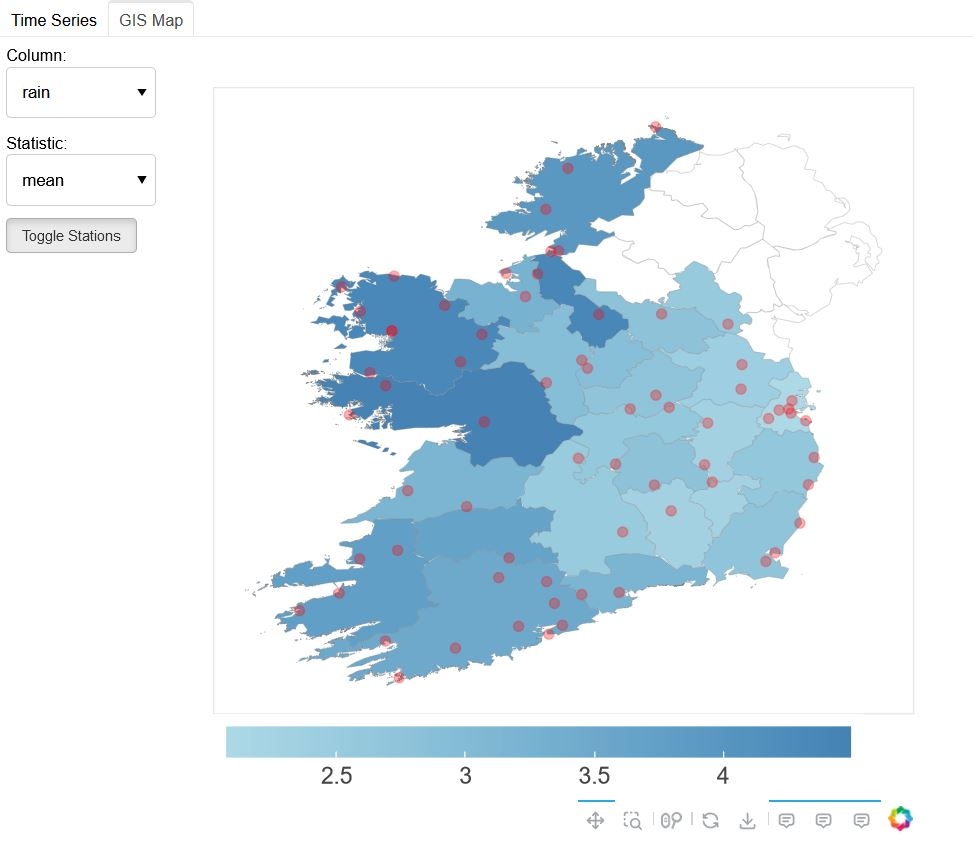
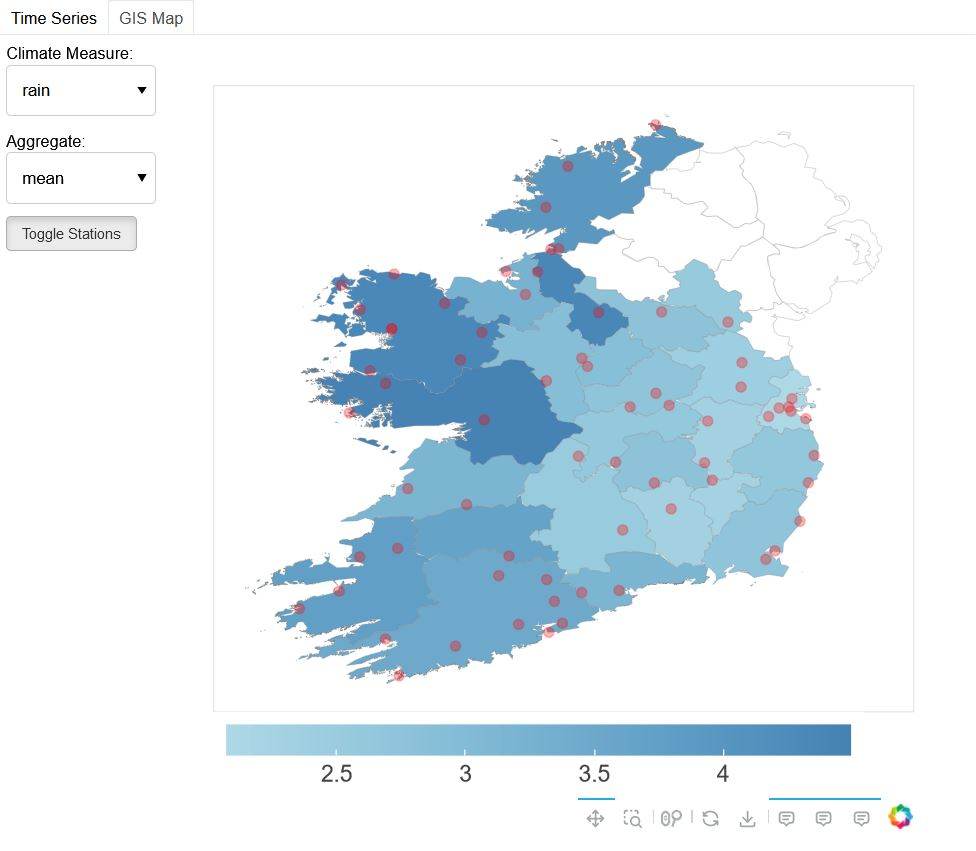
Revised title naming conventions of dashboard plots

diff --git a/scripts/BokehApp/bokeh_line_dash.py b/scripts/BokehApp/bokeh_line_dash.py
@@ -66,7 +66,7 @@ def bokeh_line_dash(load_data_dict=True):
 
     # set up selectors for bokeh line plot
     line_agg_level_selector = Select(
-        title="Aggregate Level:",
+        title="Time Span:",
         value=cons.line_agg_level_default,
         options=cons.line_agg_level_options,
         width=130,
@@ -74,7 +74,7 @@ def bokeh_line_dash(load_data_dict=True):
         aspect_ratio=10,
     )
     line_col_selector = Select(
-        title="Column:",
+        title="Climate Measure:",
         value=cons.col_default,
         options=cons.col_options,
         width=130,
@@ -82,7 +82,7 @@ def bokeh_line_dash(load_data_dict=True):
         aspect_ratio=10,
     )
     line_stat_selector = Select(
-        title="Statistic:",
+        title="Aggregate:",
         value=cons.stat_default,
         options=cons.stat_options,
         width=130,
@@ -90,7 +90,11 @@ def bokeh_line_dash(load_data_dict=True):
         aspect_ratio=10,
     )
     line_county_multiselect = MultiSelect(
-        value=cons.counties_values, options=cons.counties_options, width=130, height=260
+        title="Counties:",
+        value=cons.counties_values, 
+        options=cons.counties_options, 
+        width=130, 
+        height=260
     )
     line_county_selectall_button = Button(label="Select All", width=130)
     line_county_clearall_button = Button(label="Clear All", width=130)
@@ -107,9 +111,9 @@ def bokeh_line_dash(load_data_dict=True):
         line_agg_level_selector,
         line_col_selector,
         line_stat_selector,
+        line_county_multiselect,
         line_county_selectall_button,
         line_county_clearall_button,
-        line_county_multiselect,
     )
     dashboard_line = row(widgets_line, line_plot)
 

diff --git a/scripts/BokehApp/bokeh_map_dash.py b/scripts/BokehApp/bokeh_map_dash.py
@@ -66,7 +66,7 @@ def bokeh_map_dash(load_data_dict=True):
 
     # set up selectors for bokeh map plot
     map_col_selector = Select(
-        title="Column:",
+        title="Climate Measure:",
         value=cons.col_default,
         options=cons.col_options,
         width=120,
@@ -74,7 +74,7 @@ def bokeh_map_dash(load_data_dict=True):
         aspect_ratio=10,
     )
     map_stat_selector = Select(
-        title="Statistic:",
+        title="Aggregate:",
         value=cons.stat_default,
         options=cons.stat_options,
         width=120,
@@ -82,7 +82,9 @@ def bokeh_map_dash(load_data_dict=True):
         aspect_ratio=10,
     )
     toggle_stations = CheckboxButtonGroup(
-        labels=["Toggle Stations"], active=[], width=30
+        labels=["Toggle Stations"], 
+        active=[], 
+        width=30
     )
     map_col_selector.on_change("value", callback_map_plot)
     map_stat_selector.on_change("value", callback_map_plot)
